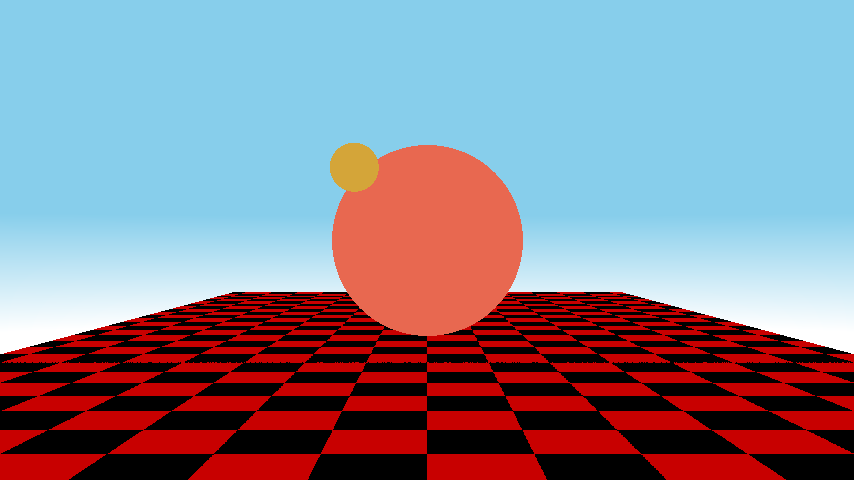
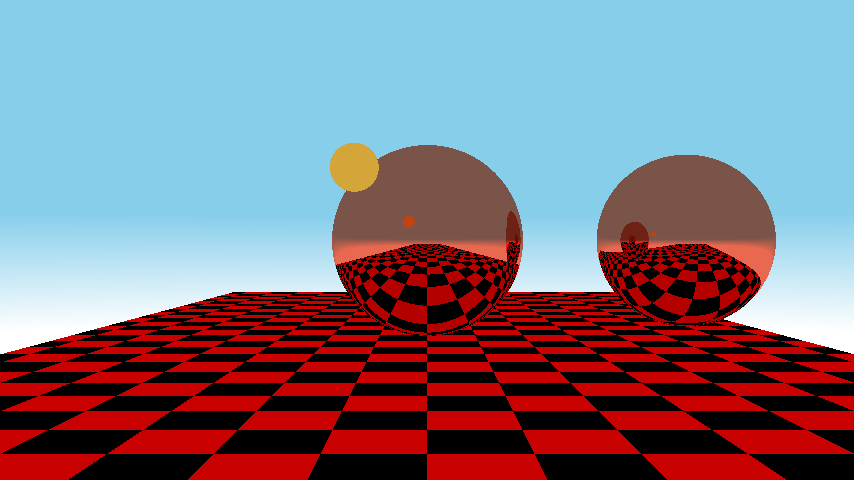
Add reflections

Changed region(s): [[0.3653, 0.2812, 0.6393, 0.7188], [0.7002, 0.3125, 0.9133, 0.6875]]

diff --git a/src/world.rs b/src/world.rs
@@ -6,12 +6,43 @@ pub type WorldPoint = TypedPoint3D<f32, WorldSpace>;
 pub type WorldVec = TypedPoint3D<f32, WorldSpace>;
 pub type Colour = TypedPoint3D<u8, RGBSpace>;
 
+pub fn trace(pos : WorldPoint, dir : WorldVec, world : &Vec<WorldObject>) -> Option<(&WorldObject, f32)> {
+    let mut result : Option<(&WorldObject, f32)> = None;
+
+    for s in world.iter() {
+        match s.intersect(pos, dir) {
+            Some(i) => {
+                if result.is_none() || i < result.unwrap().1 {
+                    result = Some((s, i))
+                }
+            }
+            None => ()
+        }
+    }
+
+    result
+}
+
+pub fn cast_ray(from : WorldPoint, ray : WorldVec, depth : u8,
+                world : &Vec<WorldObject>, smootheness : f32) -> Colour {
+    match trace(from + ray*0.01f32, ray, world) {
+        Some((obj, t)) => obj.material.colour(obj, from + ray*t, ray, from + ray*0.01f32, world, depth),
+        None => Colour::new(0,0,0)
+    }
+}
+
 pub trait Shape {
-    fn intersect(&self, obj : &WorldObject, pos : WorldPoint, dir : WorldVec) -> Option<f32>;
+    fn intersect(&self, obj : &WorldObject,
+                 pos : WorldPoint, dir : WorldVec) -> Option<f32>;
+
+    fn normal(&self, obj : &WorldObject, pos : WorldPoint) -> WorldVec;
+
+    fn contains(&self, obj : &WorldObject, pos : WorldPoint) -> bool;
 }
 
 pub trait Material {
-    fn colour(&self, obj : &WorldObject, at : WorldPoint, incident_ray : WorldVec) -> Colour;
+    fn colour(&self, obj : &WorldObject, at : WorldPoint, incident_from : WorldPoint,
+              incident_ray : WorldVec, world : &Vec<WorldObject>, depth : u8) -> Colour;
 }
 
 pub struct WorldObject {
@@ -20,12 +51,27 @@ pub struct WorldObject {
     pub material : Box<Material>
 }
 
+impl WorldObject {
+    pub fn intersect(&self, pos : WorldPoint, dir : WorldVec) -> Option<f32> {
+        self.shape.intersect(self, pos, dir)
+    }
+
+    pub fn normal(&self, pos : WorldPoint) -> WorldPoint {
+        self.shape.normal(self, pos)
+    }
+
+    pub fn contains(&self, pos : WorldPoint) -> bool {
+        self.shape.contains(self, pos)
+    }
+}
+
 pub struct FlatMaterial {
     pub colour : Colour
 }
 
 impl Material for FlatMaterial {
-    fn colour(&self, _ : &WorldObject, _ : WorldPoint, _ : WorldVec) -> Colour {
+    fn colour(&self, _ : &WorldObject, _ : WorldPoint,
+              _ : WorldVec, _ : WorldPoint, _ : &Vec<WorldObject>, _ : u8) -> Colour {
         self.colour
     }
 }
@@ -37,7 +83,8 @@ pub struct CheckerboardMaterial {
 }
 
 impl Material for CheckerboardMaterial {
-    fn colour(&self, _ : &WorldObject, at : WorldPoint, _ : WorldVec) -> Colour {
+    fn colour(&self, _ : &WorldObject, at : WorldPoint,
+              _ : WorldVec, _ : WorldPoint, _ : &Vec<WorldObject>, _ : u8) -> Colour {
         if ((at.x/self.repeat).floor() + (at.z/self.repeat).floor()) as i32 % 2 == 0 {
             self.colour1
         }
@@ -55,9 +102,33 @@ pub struct GradientMaterial {
 }
 
 impl Material for GradientMaterial {
-    fn colour(&self, _ : &WorldObject, at : WorldPoint, _ : WorldVec) -> Colour {
+    fn colour(&self, _ : &WorldObject, at : WorldPoint,
+              _ : WorldVec, _  : WorldPoint, _ : &Vec<WorldObject>, _ : u8) -> Colour {
         let t = ((at.y - self.from_y)/(self.to_y - self.from_y)).min(1f32).max(0f32);
         (self.from.to_f32() + (self.to.to_f32() - self.from.to_f32()) * t).round().cast::<u8>().unwrap()
+    }
+}
+
+pub struct ReflectMaterial {
+    pub smoothness: f32,
+    pub base : Box<Material>
+}
+
+impl Material for ReflectMaterial {
+    fn colour(&self, obj : &WorldObject, at : WorldPoint,
+              incident : WorldVec, incident_from : WorldPoint, world : &Vec<WorldObject>, depth : u8) -> Colour {
+        if depth > 3 {
+            return Colour::new(0,0,0);
+        }
+
+        let norm = obj.normal(at);
+        let ray = (incident-norm*2f32*incident.dot(norm)).normalize();
+        let reflect = cast_ray(at, ray, depth+1, world, self.smoothness).to_f32();
+        let base = self.base.colour(obj, at, incident, incident_from, world, depth).to_f32();
+
+        Colour::new((reflect.x*base.x/255f32).min(255f32).max(0f32) as u8,
+                    (reflect.y*base.y/255f32).min(255f32).max(0f32) as u8,
+                    (reflect.z*base.z/255f32).min(255f32).max(0f32) as u8)
     }
 }
 
@@ -84,6 +155,14 @@ impl Shape for Sphere {
                 Some(a) => Some(f32::min(a,x)),
                 None => Some(x)
             })
+    }
+
+    fn normal(&self, obj : &WorldObject, pos : WorldPoint) -> WorldVec {
+        (pos - obj.position).normalize()
+    }
+
+    fn contains(&self, obj : &WorldObject, pos : WorldPoint) -> bool {
+        (pos-obj.position).dot(pos-obj.position).abs() <= self.radius
     }
 }
 
@@ -115,5 +194,17 @@ impl Shape for Plane {
         else {
             None
         }
+    }
+
+    fn normal(&self, _ : &WorldObject, _ : WorldPoint) -> WorldVec {
+        WorldVec::new(0f32, 1f32, 0f32)
+    }
+
+    fn contains(&self, obj : &WorldObject, pos : WorldPoint) -> bool {
+        pos.x <= obj.position.x + self.width/2f32
+            && pos.x >= obj.position.x - self.width/2f32
+            && pos.z <= obj.position.z + self.height/2f32
+            && pos.z >= obj.position.z - self.height/2f32
+            && (pos.y - obj.position.y).abs() < 0.01f32
     }
 }

diff --git a/src/main.rs b/src/main.rs
@@ -18,28 +18,7 @@ fn get_pixel(x : f32, y : f32, width : u32, height : u32, world : &Vec<WorldObje
     let ray = (camera_dir*focal_length + camera_right * (x as f32 * sensor_size[0])
         + camera_up * (-y as f32 * sensor_size[1])).normalize();
 
-    let mut intersect = None;
-    let mut obj = None;
-
-    for s in world.iter() {
-        match s.shape.intersect(s, camera_pos, ray) {
-            Some(i) => {
-                if intersect == None || i < intersect.unwrap() {
-                    intersect = Some(i);
-                    obj = Some(s);
-                }
-            }
-            None => ()
-        }
-    }
-
-    match intersect {
-        Some(t) => {
-            let s = obj.unwrap();
-            s.material.colour(&s, camera_pos + ray*t, ray)
-        },
-        None => Colour::new(0,0,0)
-    }
+    cast_ray(camera_pos, ray, 0, world, 1f32)
 }
 
 fn main() {
@@ -62,8 +41,23 @@ fn main() {
             shape: Box::new(Sphere {
                 radius : 1f32
             }),
-            material : Box::new(FlatMaterial {
-                colour: Colour::new(232, 104, 80),
+            material : Box::new(ReflectMaterial {
+                base: Box::new(FlatMaterial {
+                    colour: Colour::new(232, 104, 80),
+                }),
+                smoothness: 1f32
+            })
+        },
+        WorldObject {
+            position : WorldPoint::new(5f32, 0f32, 3f32),
+            shape: Box::new(Sphere {
+                radius : 1f32
+            }),
+            material : Box::new(ReflectMaterial {
+                base: Box::new(FlatMaterial {
+                    colour: Colour::new(232, 104, 80),
+                }),
+                smoothness: 1f32
             })
         },
         WorldObject {
